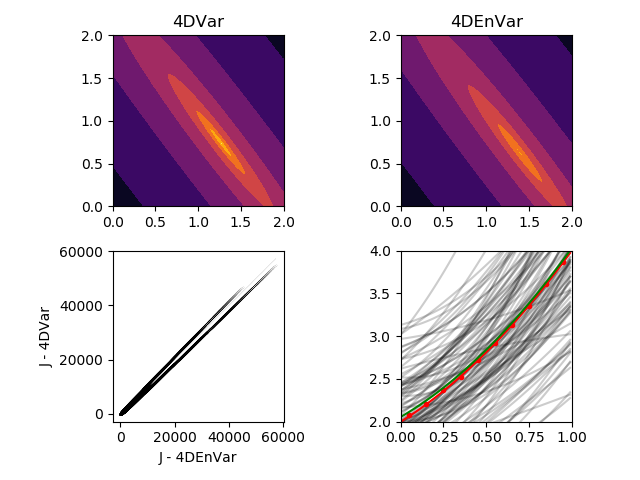
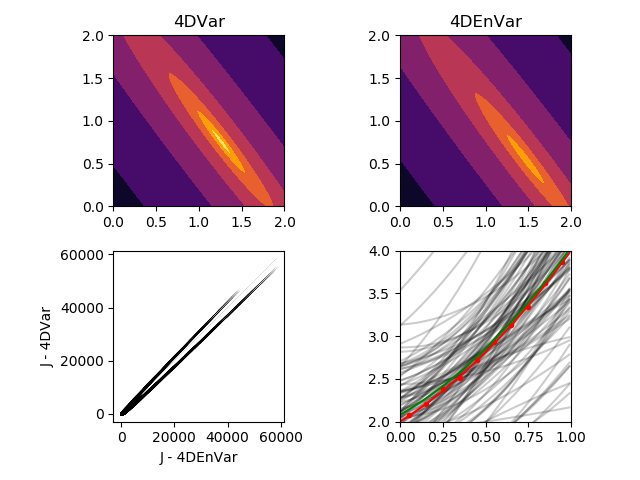
tidy up for v1.0.0 release

diff --git a/linear_tests/genLinear.py b/linear_tests/genLinear.py
@@ -121,7 +121,7 @@ if __name__=="__main__":
 
     #coefs_truth, coefs_prior, uncert_prior, nens, nobs, obs_uncert
     truth=[2.,1.1,0.]
-    l=linearModelEnsemble(truth,[1.,0.5,0.3],[0.2,0.2,0.2],20,10,0.01)
+    l=linearModelEnsemble(truth,[1.,0.5,0.3],[0.2,0.2,0.2],20,10,0.01,rand_obs_y=True)
     l.write_files()
         
     #run the 4DEnVar via a subprocess
@@ -134,7 +134,7 @@ if __name__=="__main__":
         analysis.append(float(out[i]))
             
     print(analysis)
-    #l.plot(filename="linear_example.png",analysis=analysis)
-    l.plot(analysis=analysis)
+    l.plot(filename="linear_example.png",analysis=analysis)
+    #l.plot(analysis=analysis)
 
 
